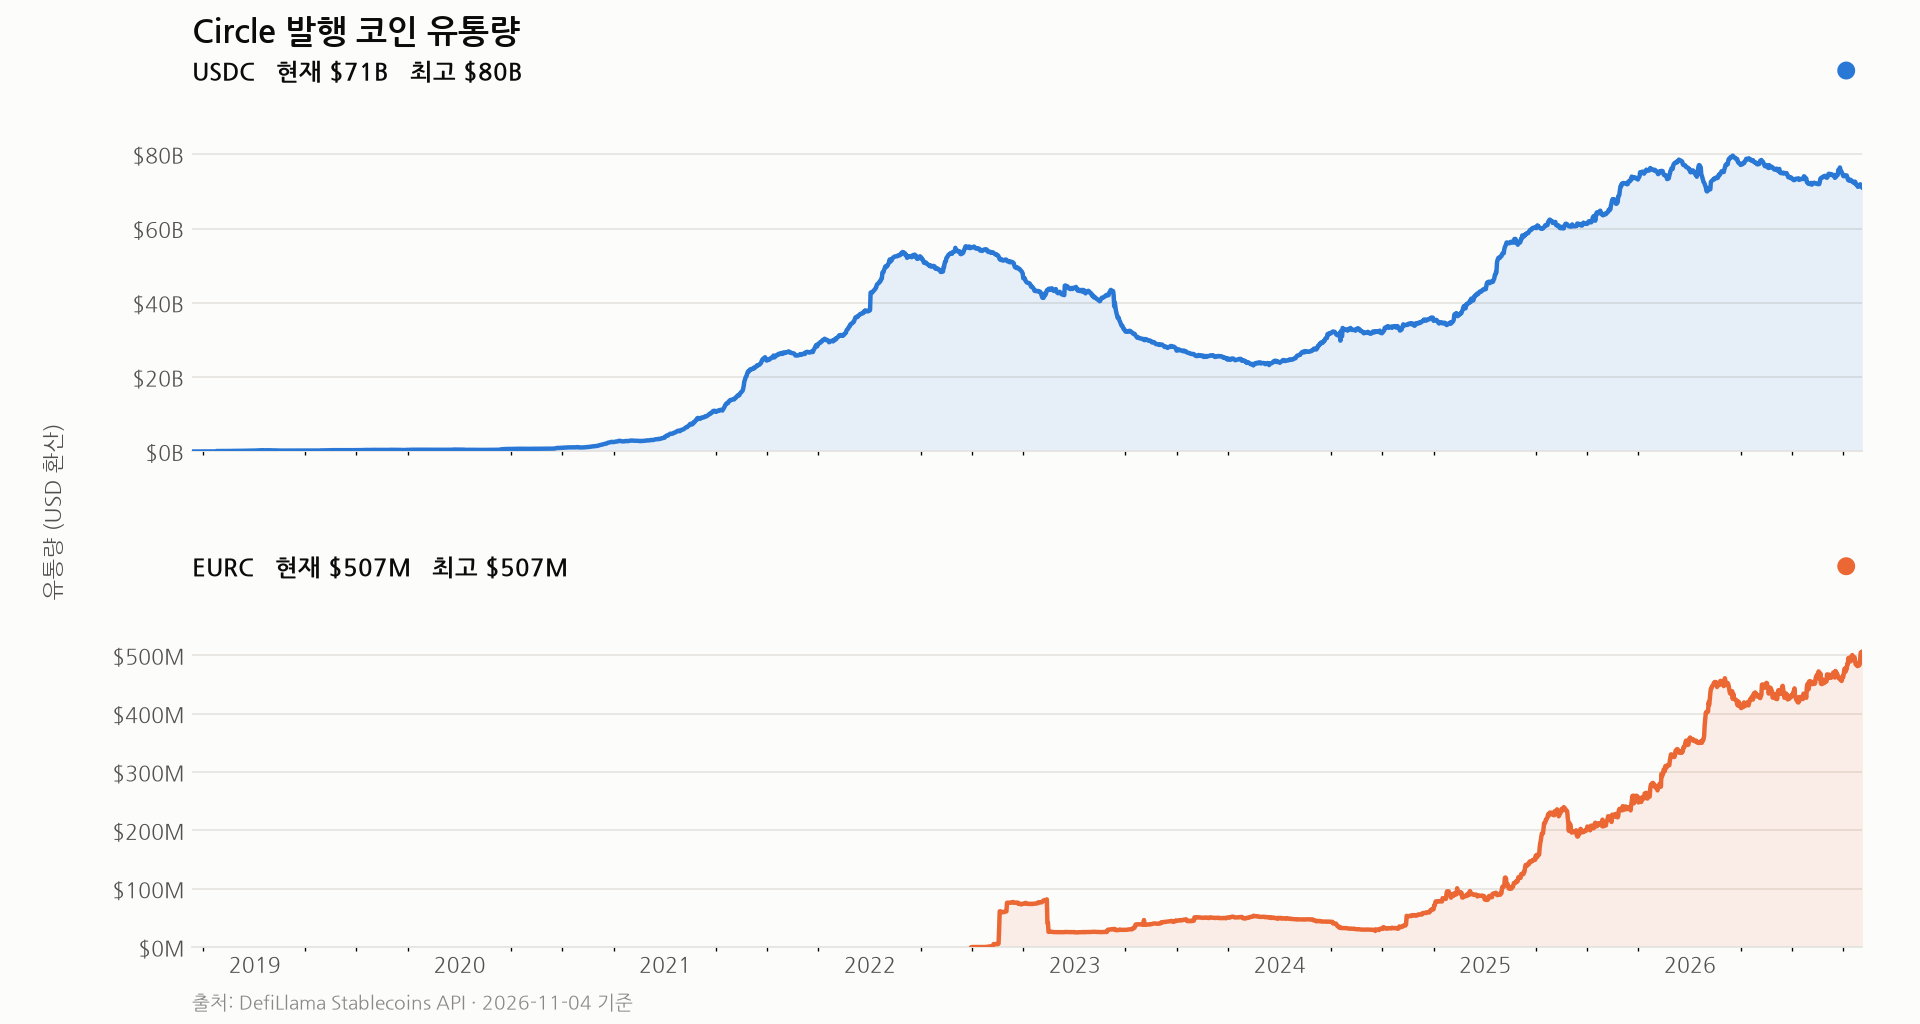
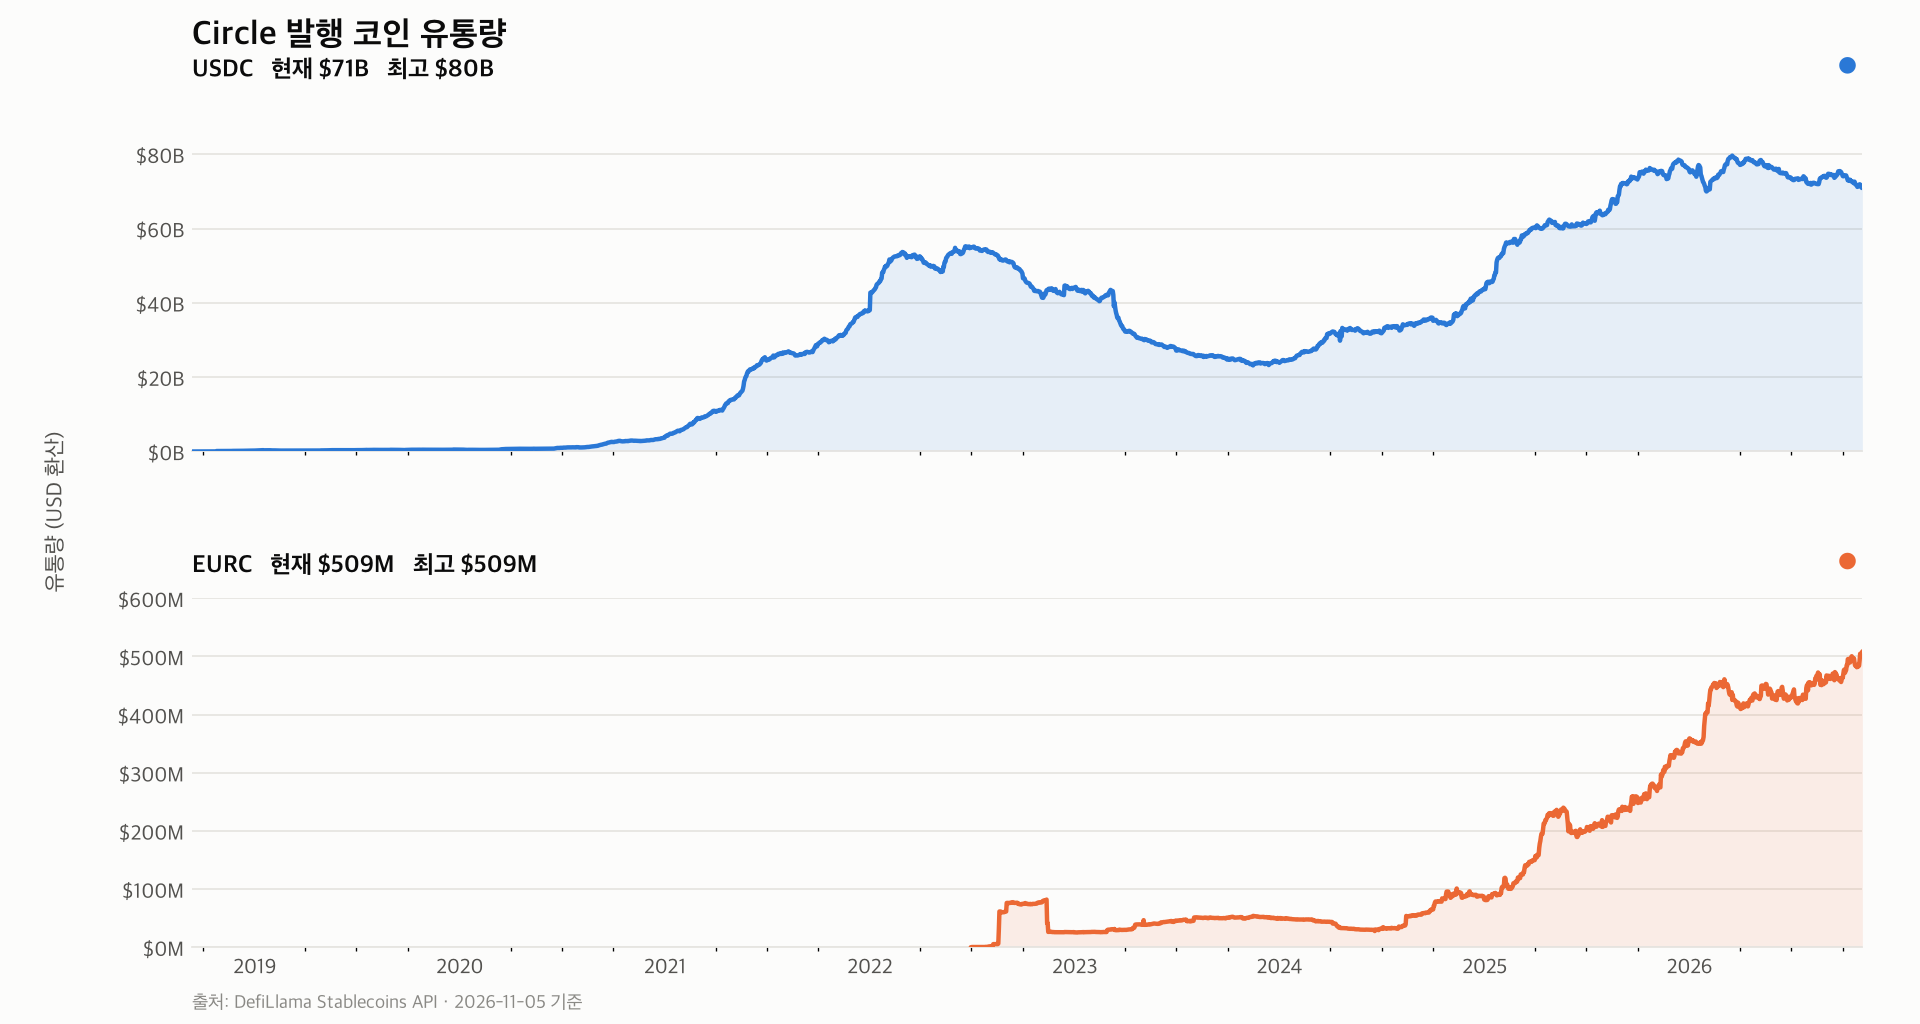
2026Q3 실적 반영: ARC 토큰 일회성 매출 분리, 밴드 산출 버그 수정
2026-11-04 공시된 10-Q(2026Q3)를 반영한다.

공시 실적
  준비금 수익 $657.6M (모델 $704M, 오차 +7.0%)
  총매출 $864.9M — 이 가운데 $181.8M은 ARC 토큰 프리세일 수익 인식
  유통·거래비용 $411.6M, 영업이익 $208.3M

ARC 일회성 매출 분리
  ONE_OFF_REVENUE를 두어 Binance 일회성 비용과 같은 방식으로 다룬다.
  이를 빼지 않으면 기타매출 비율이 한 분기만 1.6%에서 31.5%로 뛰어
  진행 분기 추정을 오염시킨다. 실제로 2026Q4 매출 추정이 $828M로
  부풀어 있었고, 분리 후 $776M이 됐다.

밸류에이션 밴드 산출 버그
  valuation.py에만 적용돼 있던 reported_only 필터가 volatility.py와
  snapshot.py에는 빠져 있었다. 진행 분기의 '분기말 주가'는 오늘 주가라서
  밴드 하단이 현재가에 못 박힌다. 세 스크립트가 각각 $75~$106, $83~$102,
  $72~$88을 내놓고 있었다. 이제 모두 $72~$88로 일치한다.
  TTM 매출·RLDC도 경상 기준으로 바꿨다 — 배수의 분모가 한 분기만
  부풀면 배수 범위와 현재 TTM이 서로 다른 것을 재게 된다.

모델 과대추정 경향
  실현 수익률 ÷ 3개월 국채금리 배수가 3개 분기 연속 하락했다
  (0.978 → 0.963 → 0.935). 준비금 수익에는 Reserve Fund 밖 국채의
  평가손익이 들어가므로, 금리 상승 구간에서는 평가손이 이자수익
  증가를 일부 상쇄한다. 사이트에 설명을 덧붙였다.

diff --git a/docs/index.html b/docs/index.html
@@ -91,6 +91,11 @@ tr.pending td { color: var(--ink-2); font-style: italic; }
   width: 100%; height: auto; display: block; border-radius: 12px;
   border: 1px solid var(--line); background: var(--surface);
 }
+.flag {
+  display: inline-block; font-size: 11px; font-weight: 600;
+  color: var(--orange); border: 1px solid var(--orange);
+  border-radius: 5px; padding: 0 4px; margin-left: 4px; vertical-align: 1px;
+}
 .note {
   background: var(--surface); border: 1px solid var(--line);
   border-left: 3px solid var(--orange);
@@ -112,7 +117,7 @@ a { color: var(--blue); }
     약 63%가 유통비용으로 빠져나간다.
   </p>
   <p class="stamp">
-    자동 갱신 · 2026-11-04 02:29 UTC ·
+    자동 갱신 · 2026-11-05 01:58 UTC ·
     <a href="https://github.com/gwonyongjin94-ui/Circle-Revenue-structure">GitHub</a>
   </p>
 </header>
@@ -123,27 +128,27 @@ a { color: var(--blue); }
       <div class="gauge-head">
         <div>
           <div class="gauge-label">주당가치 범위</div>
-          <div class="gauge-range">$75 <span>~</span> $91</div>
-          <div class="gauge-sub">중앙 $81</div>
+          <div class="gauge-range">$72 <span>~</span> $88</div>
+          <div class="gauge-sub">중앙 $83</div>
         </div>
         <div class="gauge-now">
           <div class="gauge-label">현재 주가</div>
           <div class="gauge-price">$75.22</div>
-          <div class="gauge-verdict">밴드 안 (하단에서 3% 지점)</div>
+          <div class="gauge-verdict">밴드 안 (하단에서 18% 지점)</div>
         </div>
       </div>
       <div class="track">
         <div class="track-band" style="left:17.95%;width:64.10%"></div>
-        <div class="track-mid" style="left:42.77%"></div>
-        <div class="track-now" style="left:19.81%"></div>
+        <div class="track-mid" style="left:61.51%"></div>
+        <div class="track-now" style="left:29.39%"></div>
       </div>
       <div class="track-axis">
-        <span style="left:17.95%">$75</span>
-        <span style="left:82.05%">$91</span>
+        <span style="left:17.95%">$72</span>
+        <span style="left:82.05%">$88</span>
       </div>
     </div>
 <div class="note">
-  밴드는 <strong>공시가 나온 3개 분기</strong>(2025Q4~2026Q2)의
+  밴드는 <strong>공시가 나온 4개 분기</strong>(2025Q4~2026Q3)의
   시총/TTM RLDC 배수 범위(16.0~19.5x)를
   현재 TTM RLDC $1.2B에 적용한 값이다.
   재평가가 끝난 구간만 쓰며, 상장 직후의 51.7x는 제외한다.
@@ -153,18 +158,26 @@ a { color: var(--blue); }
 </div>
 
 <h2>지금 상태</h2>
-<div class="tiles"><div class="tile"><div class="tile-label">USDC 유통량</div><div class="tile-value">$71B</div><div class="tile-note">2026-11-04</div></div><div class="tile"><div class="tile-label">시가총액</div><div class="tile-value">$19B</div><div class="tile-note">TTM 매출 6.6x</div></div><div class="tile"><div class="tile-label">2026Q4 총매출 추정</div><div class="tile-value">$777M</div><div class="tile-note">준비금 수익 $742M</div></div><div class="tile"><div class="tile-label">RLDC (Circle 몫)</div><div class="tile-value">$311M</div><div class="tile-note">유통비용 63% 차감 후</div></div><div class="tile"><div class="tile-label">분기 평균 단기금리</div><div class="tile-value">4.05%</div><div class="tile-note">3개월 국채</div></div><div class="tile"><div class="tile-label">준비금 익일물 비중</div><div class="tile-value">57%</div><div class="tile-note">펀드 $58B</div></div></div>
+<div class="tiles"><div class="tile"><div class="tile-label">USDC 유통량</div><div class="tile-value">$71B</div><div class="tile-note">2026-11-05</div></div><div class="tile"><div class="tile-label">시가총액</div><div class="tile-value">$19B</div><div class="tile-note">TTM 매출 6.8x</div></div><div class="tile"><div class="tile-label">2026Q4 총매출 추정</div><div class="tile-value">$776M</div><div class="tile-note">준비금 수익 $741M</div></div><div class="tile"><div class="tile-label">RLDC (Circle 몫)</div><div class="tile-value">$311M</div><div class="tile-note">유통비용 63% 차감 후</div></div><div class="tile"><div class="tile-label">분기 평균 단기금리</div><div class="tile-value">4.05%</div><div class="tile-note">3개월 국채</div></div><div class="tile"><div class="tile-label">준비금 익일물 비중</div><div class="tile-value">60%</div><div class="tile-note">펀드 $58B</div></div></div>
 
 <h2>분기 실적 — 모델 추정과 공시</h2>
 <div class="scroll">
     <table>
       <thead><tr><th>분기</th><th>평균 잔액</th><th>금리</th><th>모델 준비금수익</th>
       <th>공시</th><th>오차</th><th>총매출</th><th>RLDC</th></tr></thead>
-      <tbody><tr><td>2025Q3</td><td>$67B</td><td>4.10%</td><td>$697M</td><td>$711M</td><td>-2.0%</td><td>$740M</td><td>$292M</td></tr><tr><td>2025Q4</td><td>$76B</td><td>3.73%</td><td>$713M</td><td>$733M</td><td>-2.8%</td><td>$770M</td><td>$309M</td></tr><tr><td>2026Q1</td><td>$75B</td><td>3.59%</td><td>$667M</td><td>$653M</td><td>+2.2%</td><td>$694M</td><td>$287M</td></tr><tr><td>2026Q2</td><td>$77B</td><td>3.62%</td><td>$693M</td><td>$668M</td><td>+3.8%</td><td>$701M</td><td>$289M</td></tr><tr class="pending"><td>2026Q3</td><td>$74B</td><td>3.80%</td><td>$704M</td><td>—</td><td>—</td><td>$738M</td><td>$296M</td></tr><tr class="pending"><td>2026Q4</td><td>$73B</td><td>4.05%</td><td>$742M</td><td>—</td><td>—</td><td>$777M</td><td>$311M</td></tr></tbody>
+      <tbody><tr><td>2025Q3</td><td>$67B</td><td>4.10%</td><td>$697M</td><td>$711M</td><td>-2.0%</td><td>$740M</td><td>$292M</td></tr><tr><td>2025Q4</td><td>$76B</td><td>3.73%</td><td>$713M</td><td>$733M</td><td>-2.8%</td><td>$770M</td><td>$309M</td></tr><tr><td>2026Q1</td><td>$75B</td><td>3.59%</td><td>$667M</td><td>$653M</td><td>+2.2%</td><td>$694M</td><td>$287M</td></tr><tr><td>2026Q2</td><td>$77B</td><td>3.62%</td><td>$693M</td><td>$668M</td><td>+3.8%</td><td>$701M</td><td>$289M</td></tr><tr><td>2026Q3</td><td>$74B</td><td>3.80%</td><td>$704M</td><td>$658M</td><td>+7.0%</td><td>$865M <span class="flag">일회성</span></td><td>$453M <span class="flag">일회성</span></td></tr><tr class="pending"><td>2026Q4</td><td>$73B</td><td>4.05%</td><td>$741M</td><td>—</td><td>—</td><td>$776M</td><td>$311M</td></tr></tbody>
     </table></div>
 <div class="note">
   모델은 잔액과 금리만으로 준비금 수익을 계산한다. 공시가 나온 분기에서
-  절대오차 평균 2% 수준이다. 기울임체 행은 아직 공시 전이라 모델값이다.
+  절대오차 평균 2.6% 수준이다. 기울임체 행은 아직 공시 전이라 모델값이다.
+   2026Q3 총매출에는 ARC 토큰 프리세일 수익 인식 (총 조달 $242M 중) $182M이 들어 있다 — 이를 빼면 경상 매출 $683M, 경상 RLDC $271M이고, 위 밴드와 추정에는 이 경상 기준을 썼다.
+</div>
+<div class="note">
+  <strong>모델이 최근 3개 분기 연속 과대추정</strong>하고 있다 —
+  실현 수익률 ÷ 3개월 국채금리 배수가 0.978 → 0.963 → 0.935로 내려갔다.
+  준비금 수익에는 Circle Reserve Fund 밖에 둔 국채의 <strong>평가손익</strong>이
+  함께 들어가고, 금리가 오르는 구간에서는 이 평가손이 이자수익 증가를 일부
+  깎아먹는다. 금리 상승이 곧바로 같은 폭의 수익 증가로 이어지지 않는다는 뜻이다.
 </div>
 
 <h2>차트</h2>

diff --git a/revenue_model.py b/revenue_model.py
@@ -49,6 +49,16 @@ ONE_OFF_COSTS: dict[cd.Quarter, tuple[float, str]] = {
     (2024, 4): (60.3e6, "Binance 일회성 선급금 (2024년 11월 계약)"),
 }
 
+# 공시에서 확인한 일회성 매출. 기타매출 비율을 왜곡하므로 별도로 표시하고
+# 진행 분기 추정의 기준에서도 뺀다.
+# 출처: Circle 2026Q3 10-Q 주석 11 — "Other revenue during the three and nine
+# months ended September 30, 2026 includes ARC token presale revenue of
+# $181.8 million reflecting the Company's progress in satisfying its
+# performance obligation." 총 조달 $242.2M 중 잔액 $60.4M은 이연매출로 남았다.
+ONE_OFF_REVENUE: dict[cd.Quarter, tuple[float, str]] = {
+    (2026, 3): (181.8e6, "ARC 토큰 프리세일 수익 인식 (총 조달 $242M 중)"),
+}
+
 RATE_STEPS = (-0.50, -0.25, 0.0, 0.25, 0.50)
 AUM_STEPS = (-0.10, 0.0, 0.10)
 
@@ -101,6 +111,21 @@ class QuarterResult:
         return ONE_OFF_COSTS.get(self.quarter)
 
     @property
+    def one_off_rev(self) -> tuple[float, str] | None:
+        return ONE_OFF_REVENUE.get(self.quarter)
+
+    @property
+    def recurring_revenue(self) -> float:
+        """일회성 매출을 뺀 경상 매출."""
+        amount = self.one_off_rev[0] if self.one_off_rev else 0.0
+        return self.revenue - amount
+
+    @property
+    def recurring_rldc(self) -> float:
+        amount = self.one_off_rev[0] if self.one_off_rev else 0.0
+        return self.rldc - amount
+
+    @property
     def underlying_ratio(self) -> float:
         """일회성 항목을 뺀 경상 유통비용 비율 (준비금 수익 기준)."""
         amount = self.one_off[0] if self.one_off else 0.0
@@ -128,7 +153,7 @@ def build(supply, rates, reserve_income, revenue, distribution, derived=()) -> l
         by_rate.setdefault(cd.quarter_of(day), []).append(value)
 
     # 진행 분기에 쓸 비율. 복원 분기와 일회성이 낀 분기는 기준에서 뺀다
-    skip = set(derived) | set(ONE_OFF_COSTS)
+    skip = set(derived) | set(ONE_OFF_COSTS) | set(ONE_OFF_REVENUE)
     dist_ratios = {q: distribution[q] / reserve_income[q]
                    for q in distribution if q in reserve_income}
     other_ratios = {q: (revenue[q] - reserve_income[q]) / reserve_income[q]
@@ -342,6 +367,8 @@ def main(argv=None) -> int:
         err = f"{r.error:+.1f}%" if r.error is not None else "—"
         tail = ("  (진행 중, 비율 가정)" if r.assumed
                 else "  (차감으로 복원)" if r.derived else "")
+        if r.one_off_rev:
+            tail += "  (일회성 매출 포함)"
         print(f"  {q:7}{r.avg_aum / 1e9:9.1f}B{r.avg_rate:7.2f}"
               f"{cd.human(r.modeled_ri):>9}{ri:>12}{err:>8}"
               f"{cd.human(r.revenue):>10}{cd.human(r.dist_amount):>10}"
@@ -352,6 +379,15 @@ def main(argv=None) -> int:
         print(f"\n  * {r.quarter[0]}Q{r.quarter[1]} 유통비중 {r.dist_ratio * 100:.1f}%에는 "
               f"{note} {cd.human(amount)}이 포함돼 있다.\n"
               f"    이를 빼면 {r.underlying_ratio * 100:.1f}%로 인접 분기 수준이 된다.")
+
+    for r in (x for x in shown if x.one_off_rev):
+        amount, note = r.one_off_rev
+        print(f"\n  * {r.quarter[0]}Q{r.quarter[1]} 총매출 {cd.human(r.revenue)}에는 "
+              f"{note} {cd.human(amount)}이 포함돼 있다.\n"
+              f"    이를 빼면 경상 매출 {cd.human(r.recurring_revenue)}, "
+              f"경상 RLDC {cd.human(r.recurring_rldc)}이다.\n"
+              f"    유통비용은 준비금 수익에만 걸리므로 이 매출은 전액 Circle 몫이지만,\n"
+              f"    반복되지 않는다 — 진행 분기 추정의 기준에서 제외했다.")
 
     errors = [r.error for r in shown if r.error is not None]
     if errors:

diff --git a/build_site.py b/build_site.py
@@ -63,6 +63,8 @@ def collect(refresh: bool = False) -> dict:
     s["band_quarters"] = len(reported)
     s["last_reported"] = max(r.quarter for r in results if r.reserve_income is not None)
     s["results"] = results
+    errors = [abs(r.error) for r in results if r.error is not None]
+    s["mean_error"] = sum(errors) / len(errors) if errors else 0.0
     return s
 
 
@@ -142,11 +144,15 @@ def quarters_table(s: dict) -> str:
         actual = cd.human(r.reserve_income) if r.reserve_income is not None else "—"
         err = f"{r.error:+.1f}%" if r.error is not None else "—"
         mark = ' class="pending"' if r.reserve_income is None else ""
+        rev, rldc = cd.human(r.revenue), cd.human(r.rldc)
+        if r.one_off_rev:
+            rev += ' <span class="flag">일회성</span>'
+            rldc += ' <span class="flag">일회성</span>'
         rows.append(
             f"<tr{mark}><td>{q}</td><td>{cd.human(r.avg_aum)}</td>"
             f"<td>{r.avg_rate:.2f}%</td><td>{cd.human(r.modeled_ri)}</td>"
-            f"<td>{actual}</td><td>{err}</td><td>{cd.human(r.revenue)}</td>"
-            f"<td>{cd.human(r.rldc)}</td></tr>")
+            f"<td>{actual}</td><td>{err}</td><td>{rev}</td>"
+            f"<td>{rldc}</td></tr>")
     return f"""
     <table>
       <thead><tr><th>분기</th><th>평균 잔액</th><th>금리</th><th>모델 준비금수익</th>
@@ -157,6 +163,12 @@ def quarters_table(s: dict) -> str:
 
 def render(s: dict) -> str:
     lo, mid, hi = s["value_band"]
+    one_off_note = "".join(
+        f" {r.quarter[0]}Q{r.quarter[1]} 총매출에는 {r.one_off_rev[1]} "
+        f"{cd.human(r.one_off_rev[0])}이 들어 있다 — 이를 빼면 경상 매출 "
+        f"{cd.human(r.recurring_revenue)}, 경상 RLDC {cd.human(r.recurring_rldc)}이고, "
+        f"위 밴드와 추정에는 이 경상 기준을 썼다."
+        for r in s["results"] if r.one_off_rev)
     q = f"{s['quarter'][0]}Q{s['quarter'][1]}"
     last = f"{s['last_reported'][0]}Q{s['last_reported'][1]}"
     sections = "".join(
@@ -259,6 +271,11 @@ tr.pending td {{ color: var(--ink-2); font-style: italic; }}
   width: 100%; height: auto; display: block; border-radius: 12px;
   border: 1px solid var(--line); background: var(--surface);
 }}
+.flag {{
+  display: inline-block; font-size: 11px; font-weight: 600;
+  color: var(--orange); border: 1px solid var(--orange);
+  border-radius: 5px; padding: 0 4px; margin-left: 4px; vertical-align: 1px;
+}}
 .note {{
   background: var(--surface); border: 1px solid var(--line);
   border-left: 3px solid var(--orange);
@@ -304,7 +321,15 @@ a {{ color: var(--blue); }}
 <div class="scroll">{quarters_table(s)}</div>
 <div class="note">
   모델은 잔액과 금리만으로 준비금 수익을 계산한다. 공시가 나온 분기에서
-  절대오차 평균 2% 수준이다. 기울임체 행은 아직 공시 전이라 모델값이다.
+  절대오차 평균 {s['mean_error']:.1f}% 수준이다. 기울임체 행은 아직 공시 전이라 모델값이다.
+  {one_off_note}
+</div>
+<div class="note">
+  <strong>모델이 최근 3개 분기 연속 과대추정</strong>하고 있다 —
+  실현 수익률 ÷ 3개월 국채금리 배수가 0.978 → 0.963 → 0.935로 내려갔다.
+  준비금 수익에는 Circle Reserve Fund 밖에 둔 국채의 <strong>평가손익</strong>이
+  함께 들어가고, 금리가 오르는 구간에서는 이 평가손이 이자수익 증가를 일부
+  깎아먹는다. 금리 상승이 곧바로 같은 폭의 수익 증가로 이어지지 않는다는 뜻이다.
 </div>
 
 <h2>차트</h2>

diff --git a/valuation.py b/valuation.py
@@ -46,6 +46,10 @@ DERATED_FROM = (2025, 4)
 def history(results, prices, shares, reported_only: bool = False):
     """(분기, 시가총액, TTM 매출, TTM RLDC) — TTM 4개 분기가 다 있는 분기만.
 
+    매출과 RLDC는 경상 기준이다. ARC 토큰 프리세일처럼 반복되지 않는 매출을
+    넣으면 배수의 분모가 한 분기만 부풀어, 배수 범위와 현재 TTM이 서로 다른
+    것을 재게 된다.
+
     reported_only=True 면 공시가 나온 분기만 남긴다. 배수 범위를 뽑을 때 쓴다 —
     진행 중 분기는 분기말 주가를 구할 수 없어 오늘 주가를 쓰는데, 그러면 밴드
     하단이 현재가에 못 박혀 밴드가 자기 자신을 참조하게 된다.
@@ -68,7 +72,8 @@ def history(results, prices, shares, reported_only: bool = False):
         if not (price and count):
             continue
         out.append((r.quarter, price * count,
-                    sum(x.revenue for x in window), sum(x.rldc for x in window)))
+                    sum(x.recurring_revenue for x in window),
+                    sum(x.recurring_rldc for x in window)))
     return out
 
 

diff --git a/volatility.py b/volatility.py
@@ -232,7 +232,10 @@ def main(argv=None) -> int:
         cd.fetch_distribution_costs(args.refresh, derived), derived))
     shares = cd.fetch_shares_outstanding(args.refresh)
     hist = history(results, prices, shares)
-    derated = [h for h in hist if h[0] >= DERATED_FROM]
+    # 배수는 공시가 나온 분기에서만 뽑는다 — 진행 분기의 '분기말 주가'는
+    # 오늘 주가라서, 넣으면 밴드 하단이 현재가에 못 박힌다 (valuation.history 참조)
+    derated = [h for h in history(results, prices, shares, reported_only=True)
+               if h[0] >= DERATED_FROM]
     rldc_band = band([c / l for _, c, _, l in derated])
     count = shares[-1][1]
     value_band = tuple(hist[-1][3] * m / count for m in rldc_band)

diff --git a/snapshot.py b/snapshot.py
@@ -34,7 +34,9 @@ def collect(refresh: bool = False) -> dict:
 
     current = results[-1]
     spot, count = prices[-1][1], shares[-1][1]
-    derated = [h for h in hist if h[0] >= DERATED_FROM]
+    # 배수는 공시가 나온 분기에서만 (valuation.history 설명 참조)
+    derated = [h for h in history(results, prices, shares, reported_only=True)
+               if h[0] >= DERATED_FROM]
     rldc_band = band([c / l for _, c, _, l in derated])
     as_of, holdings = cd.fetch_reserves(refresh)
     total = sum(h.market_value for h in holdings)

diff --git a/SNAPSHOT.md b/SNAPSHOT.md
@@ -1,12 +1,12 @@
 # 스냅샷
 
-자동 생성 — 2026-11-04 02:29 UTC
+자동 생성 — 2026-11-05 01:58 UTC
 
 ## 발행잔액
 
 | | |
 |---|---|
-| USDC 유통량 | $71B (2026-11-04) |
+| USDC 유통량 | $71B (2026-11-05) |
 | 2026Q4 평균 잔액 | $73B |
 | 2026Q4 평균 단기금리 | 4.05% |
 
@@ -14,17 +14,17 @@
 
 | | |
 |---|---|
-| 준비금 수익 | $742M |
-| 총매출 | $777M |
-| 유통비용 | $466M (62.8%) |
+| 준비금 수익 | $741M |
+| 총매출 | $776M |
+| 유통비용 | $465M (62.8%) |
 | RLDC | $311M |
 
-## 준비금 (2026-11-02 기준)
+## 준비금 (2026-11-03 기준)
 
 | | |
 |---|---|
 | Circle Reserve Fund 규모 | $58B |
-| 익일물 레포 비중 | 57.4% |
+| 익일물 레포 비중 | 59.5% |
 
 ## 주가
 
@@ -32,8 +32,8 @@
 |---|---|
 | CRCL | $75.22 (2026-11-03) |
 | 시가총액 | $19B |
-| TTM 매출 배수 | 6.6x |
-| TTM RLDC 배수 | 16.1x |
-| 주당가치 범위 | $75 ~ $91 (중앙 $81) |
+| TTM 매출 배수 | 6.8x |
+| TTM RLDC 배수 | 16.7x |
+| 주당가치 범위 | $72 ~ $88 (중앙 $83) |
 
 숫자의 근거와 한계는 [README](README.md) 참조. 투자 판단이나 권유가 아니다.
